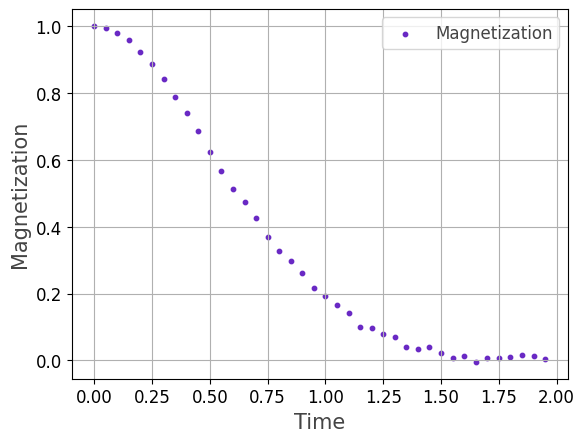
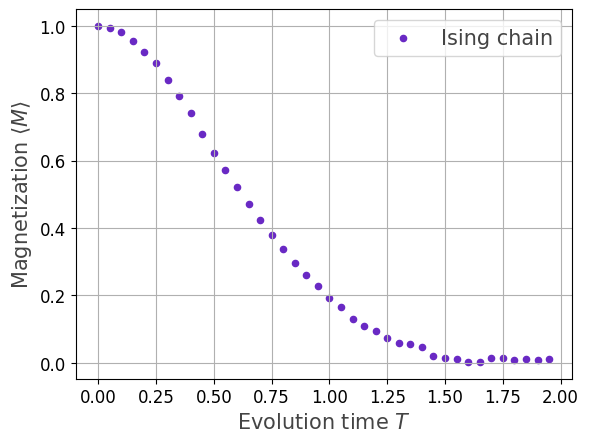
Minor updates to Ising model example

diff --git a/documentation/source/reference/Examples/IsingModel.rst b/documentation/source/reference/Examples/IsingModel.rst
@@ -1,21 +1,21 @@
 .. _IsingModel:
 
-Transverse Field Ising Model
-============================
+Hamiltonian Dynamics of the Ising Model
+=======================================
 
 .. currentmodule:: qrisp
 
-In this example, we study Hamiltonian dynamics of the transverse field Ising model defined by the Hamiltonian
+In this example, we study Hamiltonian Dynamics of the Transverse Field Ising Model (TFIM). The model is defined by the Hamiltonian
 
 $$ H = -J\\sum_{(i,j)\\in E}Z_iZ_j + B\\sum_{i\\in V}X_i $$
 
-for a lattice graph $G=(V,E)$ and real parameters $J, B$. We investigate the total magnetization 
+for a lattice graph $G=(V,E)$ and real parameters $J, B$. We investigate the total **magnetization** 
 
 $$ M = \\sum_{i\\in V}Z_i $$
 
 of the system of qubits as it evolves under the Hamiltonian.
 
-Here, we consider an Ising chain.
+Here, we consider an Ising chain:
 
 ::
 
@@ -31,7 +31,7 @@ Here, we consider an Ising chain.
 
     G = generate_chain_graph(6)
 
-We implement methods for creating the Ising Hamiltonian and the total magnetization observable for a given graph.
+First, we implement methods for creating the Ising Hamiltonian and the total magnetization observable for a given graph.
 
 ::
 
@@ -76,15 +76,15 @@ Finally, we visualize the results. As expected, the total magnetization decrease
 ::
 
     import matplotlib.pyplot as plt
-    plt.scatter(T_values, M_values, color='#6929C4', marker="o", linestyle='solid', s=10, label='Magnetization')
-    plt.xlabel("Time", fontsize=15, color="#444444")
-    plt.ylabel("Magnetization", fontsize=15, color="#444444")
-    plt.legend(fontsize=12, labelcolor="#444444")
+    plt.scatter(T_values, M_values, color='#6929C4', marker="o", linestyle="solid", s=20, label=r"Ising chain")
+    plt.xlabel(r"Evolution time $T$", fontsize=15, color="#444444")
+    plt.ylabel(r"Magnetization $\langle M \rangle$", fontsize=15, color="#444444")
+    plt.legend(fontsize=15, labelcolor="#444444")
     plt.tick_params(axis='both', labelsize=12)
     plt.grid()
     plt.show()
 
 .. figure:: /_static/Ising_chain_N=6.png
-   :alt: Ising chain
+   :alt: Magnetization for Ising chain
    :align: center
 
